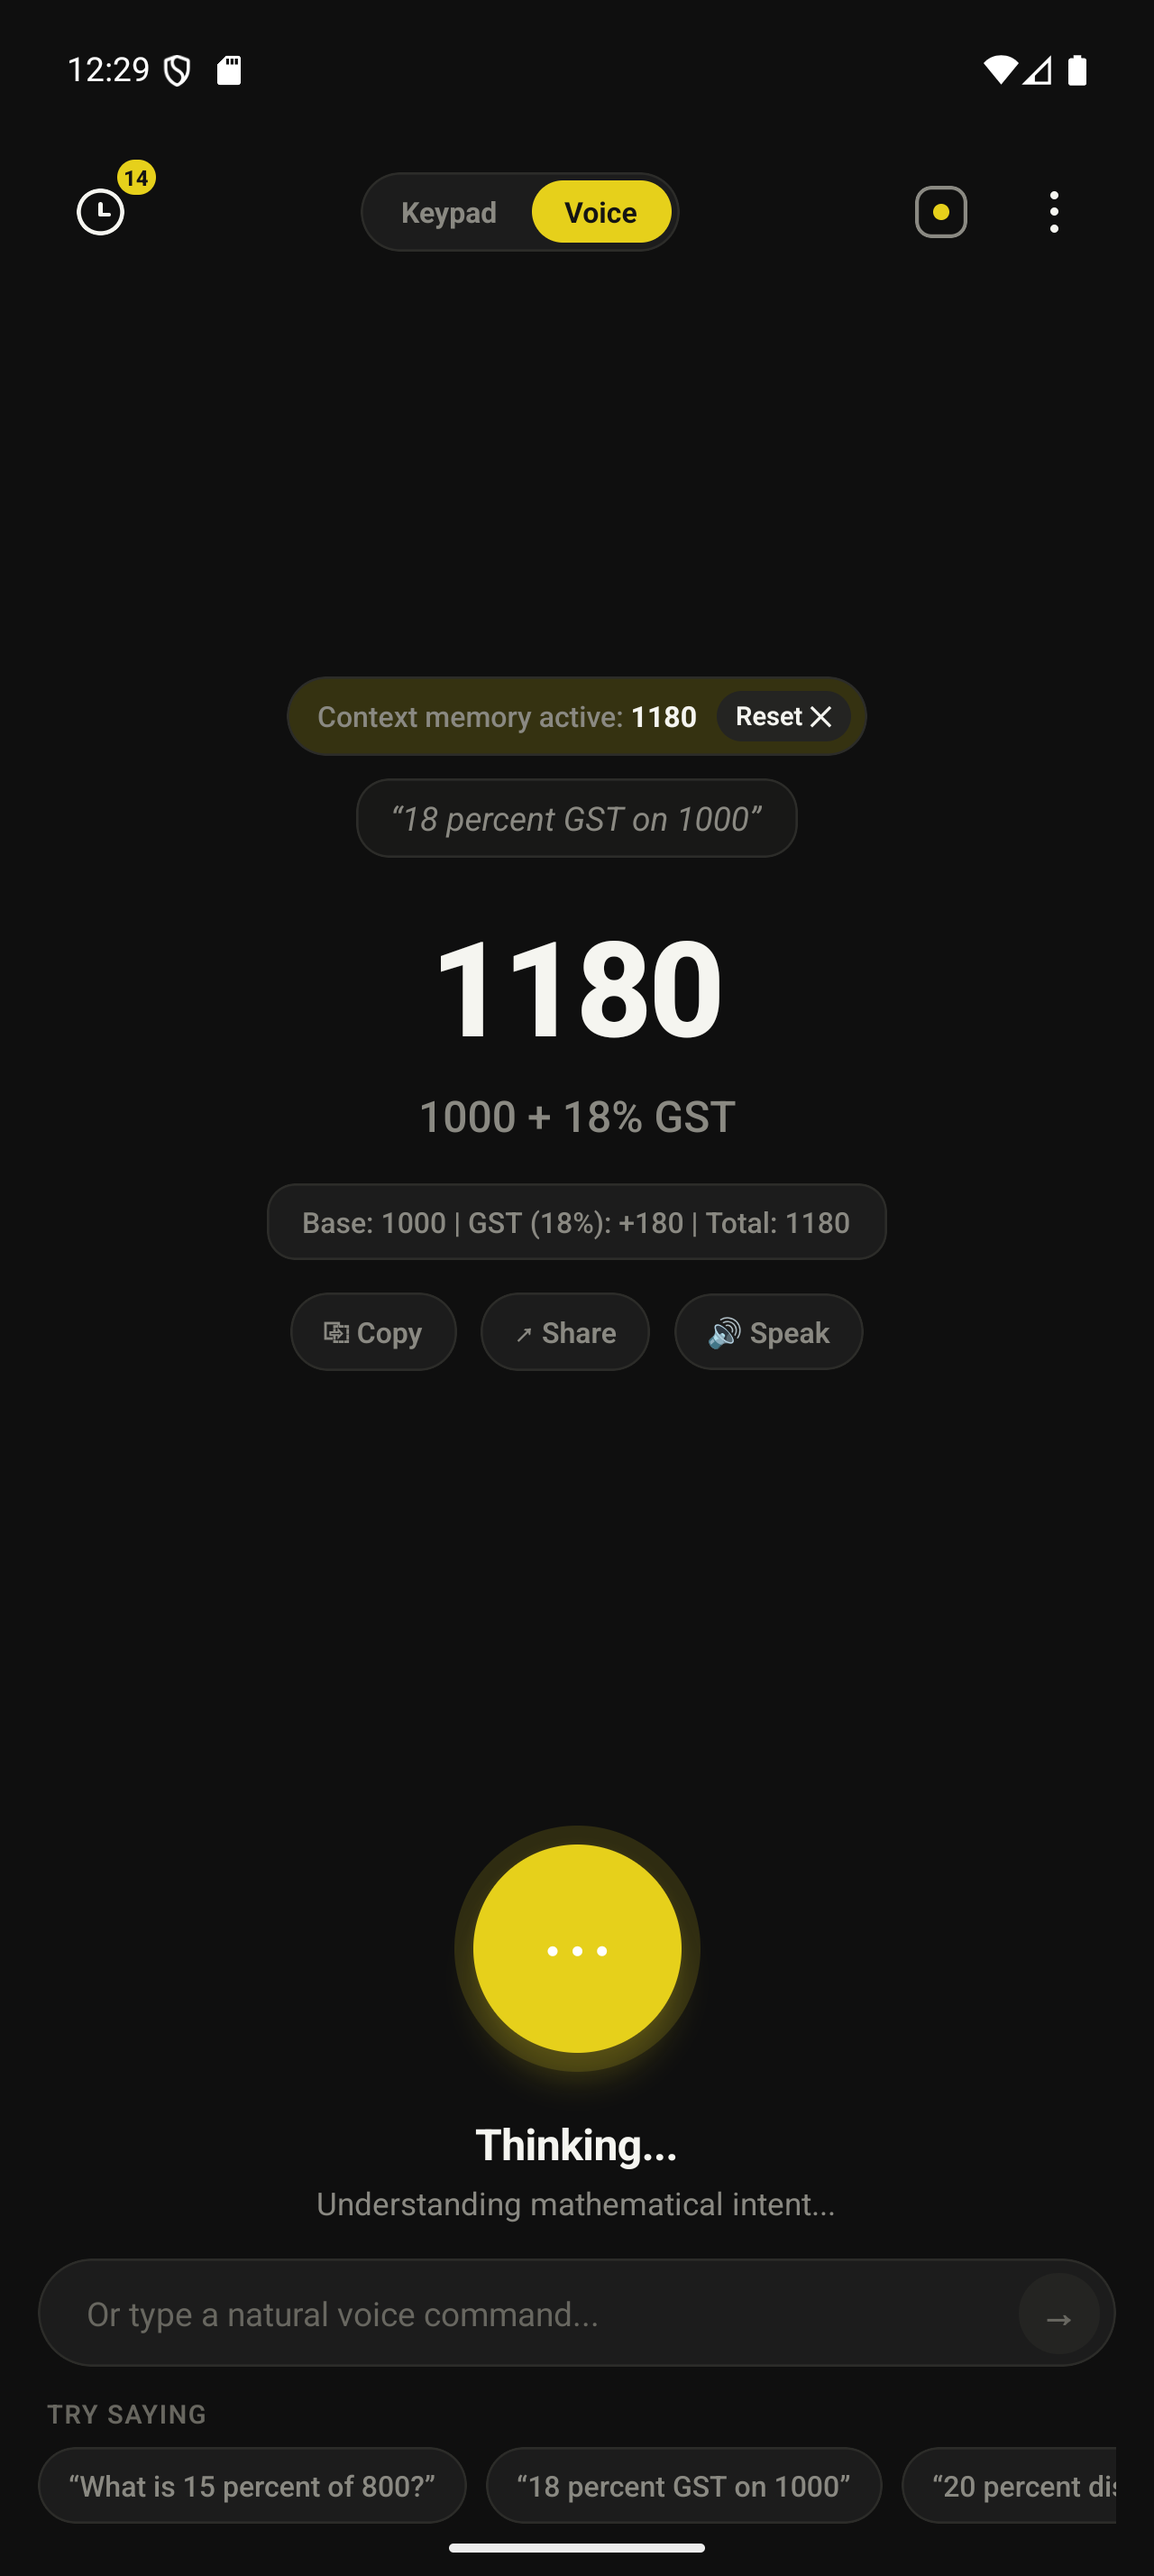
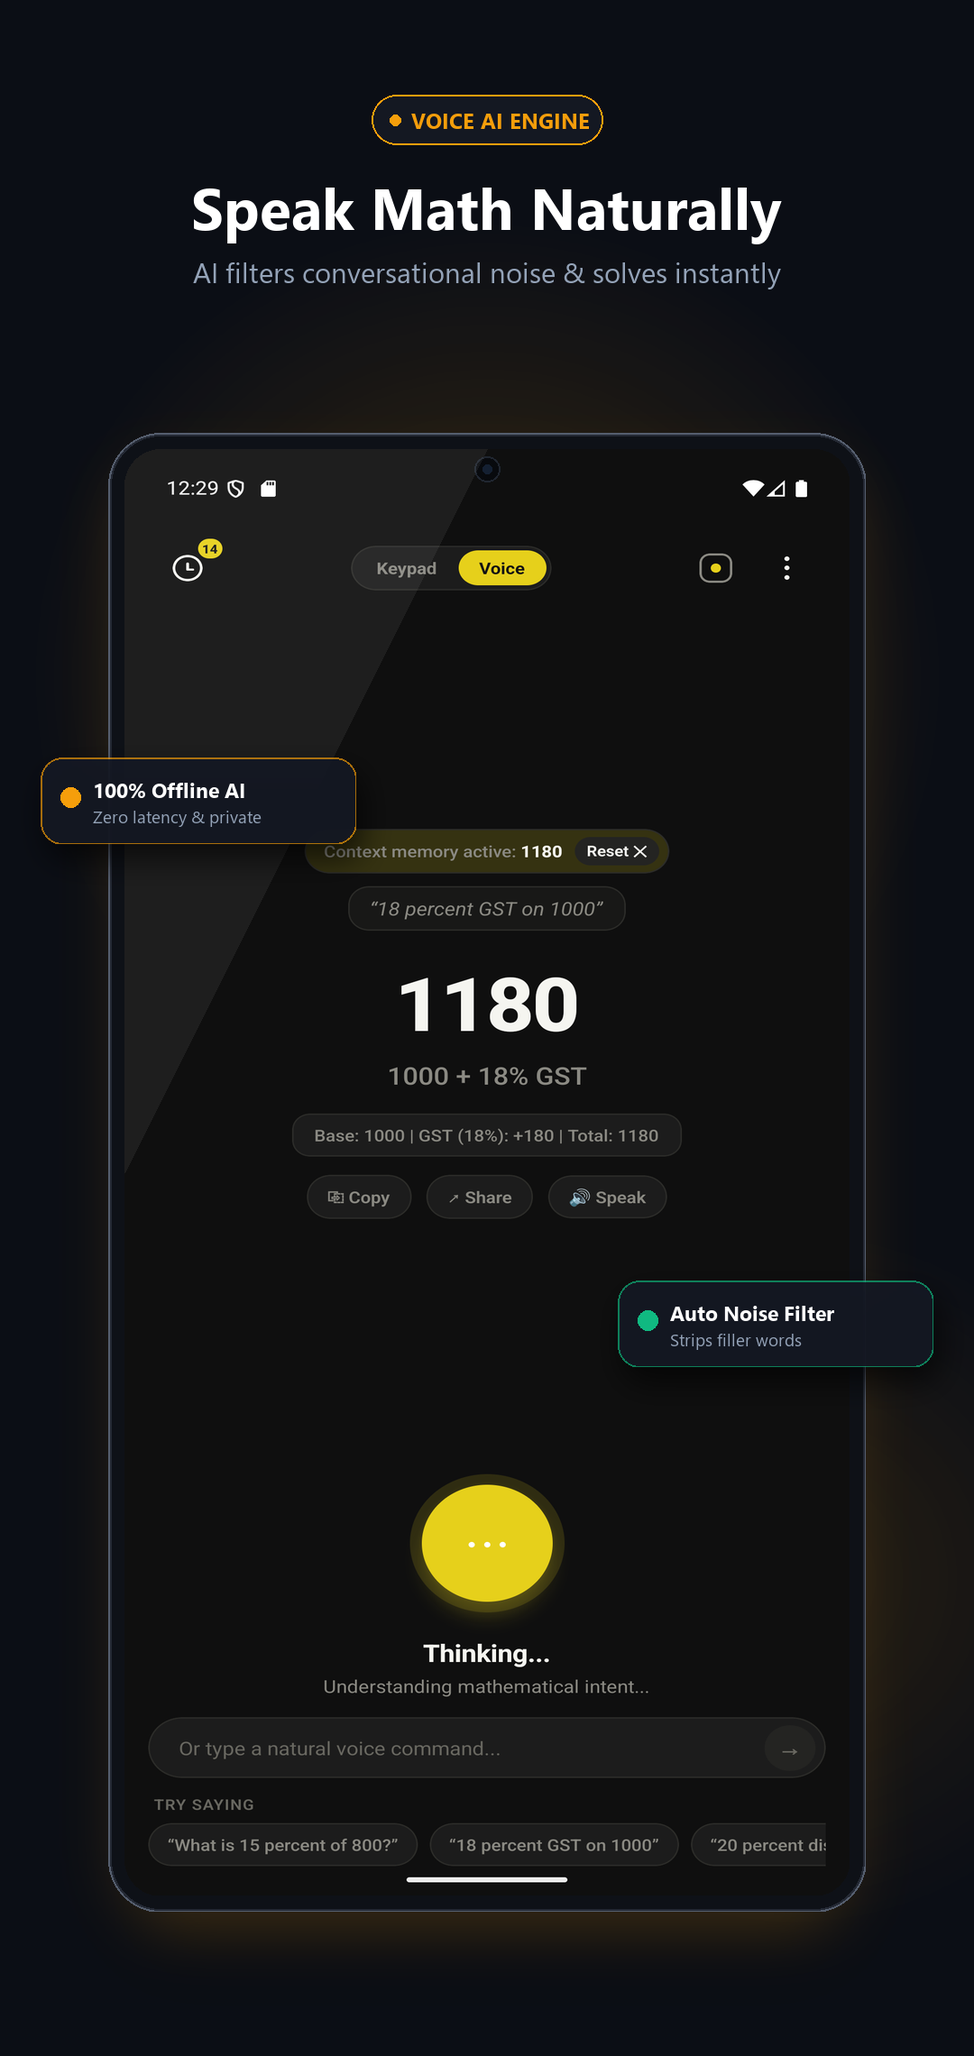
Generate dynamic 3D smartphone showcase screenshots for Play Store

diff --git a/generate_showcase_screenshots.py b/generate_showcase_screenshots.py
@@ -1,0 +1,232 @@
+import os
+import sys
+from PIL import Image, ImageDraw, ImageFont, ImageFilter
+
+def create_showcase():
+    canvas_w, canvas_h = 1080, 2280
+    output_dir = 'assets/phone-screenshots'
+    web_output_dir = 'Website/assets/phone-screenshots'
+    os.makedirs(output_dir, exist_ok=True)
+    os.makedirs(web_output_dir, exist_ok=True)
+
+    configs = [
+        {
+            "filename": "screenshot-1-voice-ai.png",
+            "source": "assets/phone-screenshots/screenshot-1-voice-ai.png",
+            "tag": "VOICE AI ENGINE",
+            "title": "Speak Math Naturally",
+            "subtitle": "AI filters conversational noise & solves instantly",
+            "color": (245, 158, 11),  # Gold / Amber
+            "badge1": ("100% Offline AI", "Zero latency & private", (245, 158, 11)),
+            "badge2": ("Auto Noise Filter", "Strips filler words", (16, 185, 129)),
+        },
+        {
+            "filename": "screenshot-2-floating-pip.png",
+            "source": "assets/phone-screenshots/screenshot-2-floating-pip.png",
+            "tag": "FLOATING PiP OVERLAY",
+            "title": "Float Over Any App",
+            "subtitle": "Multitask while chatting, shopping, or in sheets",
+            "color": (6, 182, 212),  # Cyan
+            "badge1": ("Always On Top", "Draggable mini calculator", (6, 182, 212)),
+            "badge2": ("One-Tap Copy", "Paste results anywhere", (245, 158, 11)),
+        },
+        {
+            "filename": "screenshot-3-scientific.png",
+            "source": "assets/phone-screenshots/screenshot-3-scientific.png",
+            "tag": "SCIENTIFIC POWER",
+            "title": "Advanced Mathematics",
+            "subtitle": "Trigonometry, logs, roots & universal constants",
+            "color": (168, 85, 247),  # Purple
+            "badge1": ("Full Trig & Logs", "sin, cos, ln, e^x, root", (168, 85, 247)),
+            "badge2": ("DEG / RAD Modes", "High precision engine", (6, 182, 212)),
+        },
+        {
+            "filename": "screenshot-4-history.png",
+            "source": "assets/phone-screenshots/screenshot-4-history.png",
+            "tag": "SMART MEMORY & HISTORY",
+            "title": "Never Lose a Number",
+            "subtitle": "Calculation log with voice tags & instant recall",
+            "color": (16, 185, 129),  # Emerald
+            "badge1": ("One-Tap Reuse", "Bring back past answers", (16, 185, 129)),
+            "badge2": ("Voice & Keypad Logs", "Timestamps & expressions", (245, 158, 11)),
+        },
+        {
+            "filename": "screenshot-5-settings-themes.png",
+            "source": "assets/phone-screenshots/screenshot-5-settings-themes.png",
+            "tag": "TACTILE HAPTIC FEEL",
+            "title": "Mechanical Clicks & Themes",
+            "subtitle": "Crisp tactile vibrations & luxury dark mode",
+            "color": (244, 63, 94),  # Rose
+            "badge1": ("Tactile Clicks", "Crisp mechanical feedback", (244, 63, 94)),
+            "badge2": ("Multiple Accents", "Gold, Emerald, Cyan, Rose", (245, 158, 11)),
+        },
+        {
+            "filename": "screenshot-6-main-keypad.png",
+            "source": "assets/phone-screenshots/screenshot-6-main-keypad.png",
+            "tag": "PRIVACY BY DESIGN",
+            "title": "100% Offline · Zero Ads",
+            "subtitle": "No sign-in, no tracking, pure clean speed",
+            "color": (59, 130, 246),  # Blue
+            "badge1": ("Zero Cloud Tracking", "On-device processing only", (59, 130, 246)),
+            "badge2": ("Distraction Free", "Zero ads or interruptions", (16, 185, 129)),
+        }
+    ]
+
+    # Preload Fonts
+    f_pill = ImageFont.truetype('C:/Windows/Fonts/segoeuib.ttf', 24)
+    f_title = ImageFont.truetype('C:/Windows/Fonts/segoeuib.ttf', 64)
+    f_sub = ImageFont.truetype('C:/Windows/Fonts/segoeui.ttf', 31)
+    f_badge = ImageFont.truetype('C:/Windows/Fonts/segoeuib.ttf', 23)
+    f_badge_sub = ImageFont.truetype('C:/Windows/Fonts/segoeui.ttf', 19)
+
+    for i, cfg in enumerate(configs):
+        print(f"Generating [{i+1}/6]: {cfg['title']}...")
+        base = Image.new('RGBA', (canvas_w, canvas_h), (11, 14, 21, 255))
+        accent_color = cfg['color']
+
+        # Ambient Glow Layer
+        glow = Image.new('RGBA', (canvas_w, canvas_h), (0, 0, 0, 0))
+        gdraw = ImageDraw.Draw(glow)
+        
+        # Primary accent glow behind phone
+        for r in range(520, 0, -10):
+            a = int(48 * (1 - r / 520))
+            gdraw.ellipse([540 - r, 750 - r, 540 + r, 750 + r], fill=(*accent_color, a))
+            
+        # Secondary bottom glow
+        for r in range(400, 0, -10):
+            a = int(30 * (1 - r / 400))
+            gdraw.ellipse([880 - r, 1750 - r, 880 + r, 1750 + r], fill=(*accent_color, a))
+
+        base = Image.alpha_composite(base, glow)
+
+        # Phone Geometry
+        phone_w, phone_h = 840, 1640
+        phone_x = (canvas_w - phone_w) // 2
+        phone_y = 480
+        bezel = 18
+        corner_r = 58
+
+        # Shadow beneath phone
+        shadow = Image.new('RGBA', (canvas_w, canvas_h), (0, 0, 0, 0))
+        sdraw = ImageDraw.Draw(shadow)
+        # Deep dark drop shadow
+        sdraw.rounded_rectangle(
+            [phone_x + 10, phone_y + 40, phone_x + phone_w - 10, phone_y + phone_h + 40],
+            radius=corner_r,
+            fill=(0, 0, 0, 180)
+        )
+        # Accent-tinted rim glow
+        sdraw.rounded_rectangle(
+            [phone_x - 12, phone_y + 15, phone_x + phone_w + 12, phone_y + phone_h + 25],
+            radius=corner_r + 10,
+            fill=(*accent_color, 40)
+        )
+        shadow = shadow.filter(ImageFilter.GaussianBlur(38))
+        base = Image.alpha_composite(base, shadow)
+
+        # Phone Hardware Chassis
+        phone_img = Image.new('RGBA', (phone_w, phone_h), (0, 0, 0, 0))
+        pdraw = ImageDraw.Draw(phone_img)
+        # Titanium outer border
+        pdraw.rounded_rectangle([0, 0, phone_w, phone_h], radius=corner_r, fill=(36, 41, 52), outline=(85, 94, 110), width=2)
+        # Inner bezel border
+        pdraw.rounded_rectangle([4, 4, phone_w - 4, phone_h - 4], radius=corner_r - 4, fill=(14, 17, 23))
+
+        # Screen inside
+        screen_w = phone_w - (bezel * 2)
+        screen_h = phone_h - (bezel * 2)
+        screen_r = corner_r - bezel
+
+        # Load real screenshot
+        src_img = Image.open(cfg['source']).convert('RGBA')
+        src_resized = src_img.resize((screen_w, screen_h), Image.Resampling.LANCZOS)
+
+        # Screen mask
+        mask = Image.new('L', (screen_w, screen_h), 0)
+        mdraw = ImageDraw.Draw(mask)
+        mdraw.rounded_rectangle([0, 0, screen_w, screen_h], radius=screen_r, fill=255)
+
+        phone_img.paste(src_resized, (bezel, bezel), mask)
+
+        # Front Camera Hole-Punch
+        cam_x = phone_w // 2
+        cam_y = bezel + 22
+        pdraw.ellipse([cam_x - 14, cam_y - 14, cam_x + 14, cam_y + 14], fill=(8, 10, 14), outline=(32, 38, 48), width=2)
+        pdraw.ellipse([cam_x - 5, cam_y - 5, cam_x + 5, cam_y + 5], fill=(20, 32, 50))
+
+        # Subtle specular glass sheen across top corner
+        sheen = Image.new('RGBA', (screen_w, screen_h), (0, 0, 0, 0))
+        sh_draw = ImageDraw.Draw(sheen)
+        sh_draw.polygon([(0, 0), (screen_w // 2, 0), (0, screen_h // 2)], fill=(255, 255, 255, 16))
+        sheen_masked = Image.composite(sheen, Image.new('RGBA', (screen_w, screen_h), (0,0,0,0)), mask)
+        phone_img.alpha_composite(sheen_masked, (bezel, bezel))
+
+        # Paste Phone onto canvas
+        base.alpha_composite(phone_img, (phone_x, phone_y))
+
+        # Typography
+        draw = ImageDraw.Draw(base)
+
+        # 1. Pill Tag
+        tag_text = cfg['tag']
+        bbox = draw.textbbox((0, 0), tag_text, font=f_pill)
+        pill_w = (bbox[2] - bbox[0]) + 58
+        pill_x = (canvas_w - pill_w) // 2
+        draw.rounded_rectangle([pill_x, 105, pill_x + pill_w, 160], radius=28, fill=(20, 24, 34), outline=accent_color, width=2)
+        # Pill accent dot
+        draw.ellipse([pill_x + 20, 127, pill_x + 32, 139], fill=accent_color)
+        draw.text((pill_x + 44, 117), tag_text, fill=accent_color, font=f_pill)
+
+        # 2. Headline
+        title_text = cfg['title']
+        bbox = draw.textbbox((0, 0), title_text, font=f_title)
+        t_w = bbox[2] - bbox[0]
+        draw.text(((canvas_w - t_w) // 2, 185), title_text, fill=(255, 255, 255), font=f_title)
+
+        # 3. Subtitle
+        sub_text = cfg['subtitle']
+        bbox = draw.textbbox((0, 0), sub_text, font=f_sub)
+        s_w = bbox[2] - bbox[0]
+        draw.text(((canvas_w - s_w) // 2, 280), sub_text, fill=(148, 163, 184), font=f_sub)
+
+        # Floating Badges
+        def draw_badge(x, y, title, desc, icon_col):
+            b_w, b_h = 350, 96
+            # Soft shadow
+            b_sh = Image.new('RGBA', (canvas_w, canvas_h), (0, 0, 0, 0))
+            b_sh_draw = ImageDraw.Draw(b_sh)
+            b_sh_draw.rounded_rectangle([x + 6, y + 16, x + b_w + 6, y + b_h + 16], radius=24, fill=(0, 0, 0, 160))
+            b_sh = b_sh.filter(ImageFilter.GaussianBlur(16))
+            base.alpha_composite(b_sh)
+
+            # Badge Body
+            b_card = Image.new('RGBA', (b_w, b_h), (0, 0, 0, 0))
+            bc_draw = ImageDraw.Draw(b_card)
+            bc_draw.rounded_rectangle([0, 0, b_w, b_h], radius=24, fill=(20, 24, 35, 235), outline=(*icon_col, 170), width=2)
+            # Glowing indicator dot
+            bc_draw.ellipse([22, 33, 44, 55], fill=icon_col)
+            bc_draw.text((58, 20), title, fill=(255, 255, 255), font=f_badge)
+            bc_draw.text((58, 52), desc, fill=(148, 163, 184), font=f_badge_sub)
+            base.alpha_composite(b_card, (x, y))
+
+        # Position badges overlapping phone borders
+        b1_title, b1_desc, b1_col = cfg['badge1']
+        draw_badge(45, 840, b1_title, b1_desc, b1_col)
+
+        b2_title, b2_desc, b2_col = cfg['badge2']
+        draw_badge(canvas_w - 350 - 45, 1420, b2_title, b2_desc, b2_col)
+
+        # Save to output locations
+        dest_main = os.path.join(output_dir, cfg['filename'])
+        dest_web = os.path.join(web_output_dir, cfg['filename'])
+        
+        rgb_img = base.convert('RGB')
+        rgb_img.save(dest_main, quality=95)
+        rgb_img.save(dest_web, quality=95)
+        print(f"Saved: {dest_main}")
+
+    print("All 6 showcase screenshots generated successfully!")
+
+if __name__ == '__main__':
+    create_showcase()
